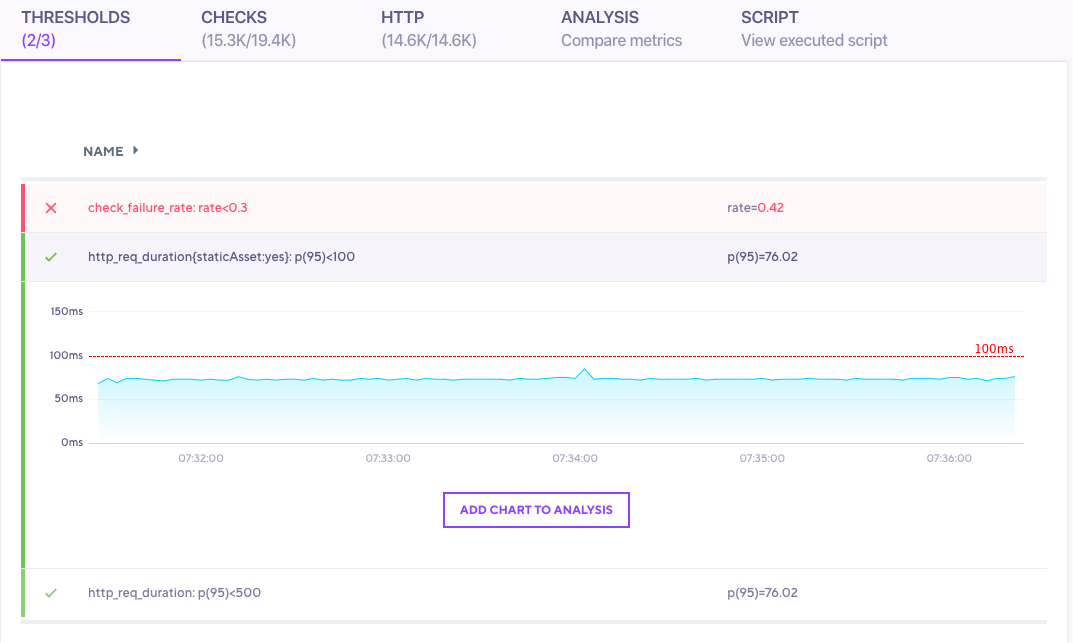
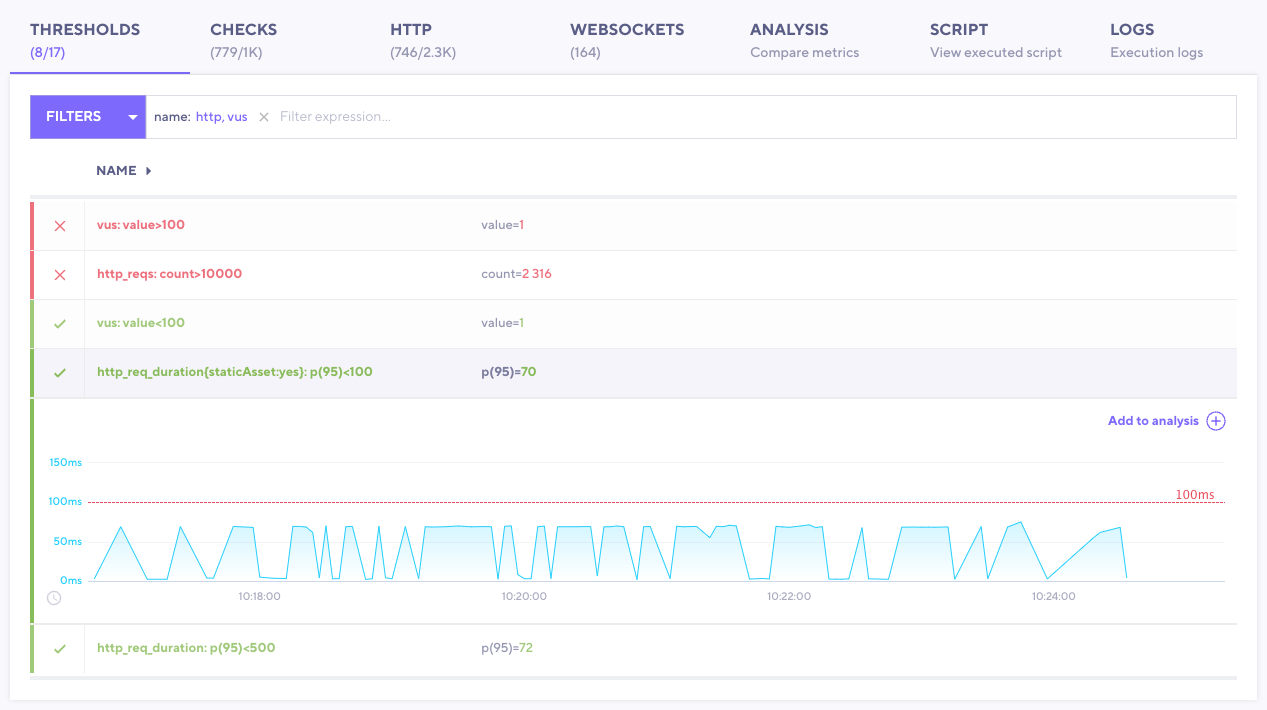
[docs] Update thresholds tab cloud docs page.

diff --git a/src/data/markdown/docs/03 cloud/02 Analyzing Results/03 Threshold Tab.md b/src/data/markdown/docs/03 cloud/02 Analyzing Results/03 Threshold Tab.md
@@ -9,8 +9,8 @@ The Threshold Tab allow you to visually inspect and analyze `Thresholds` in your
 
 Further within this tab, you are able to:
 
-- Easily see failing checks. In the example below, our `check_failure_rate` custom metric is failing. Take notice of the &#10003; or &#10005; on the left side of each row.
-- Expand a threshold to view its graph. In our example below, the expanded threshold is below the threshold of 100 ms
+- Easily see failing thresholds. In the example below we have filtered the list of thresholds to only show thresholds with names that include either "http" or "vus". Out of the thresholds that satisfies the filter criteria we can see that two are failing, `vus: value>100` and `http_reqs:count>10000`. Take notice of the &#10003; or &#10005; on the left side of each row.
+- Expand a threshold to view its graph. In our example below, the expanded thresholds calculated value is below the threshold of 100 ms.
 - Add the chart to the `Analysis Tab` for further correlation with other data
 
 ![Thresholds Tab](./images/03-Threshold-Tab/thresholds-tab.png)
